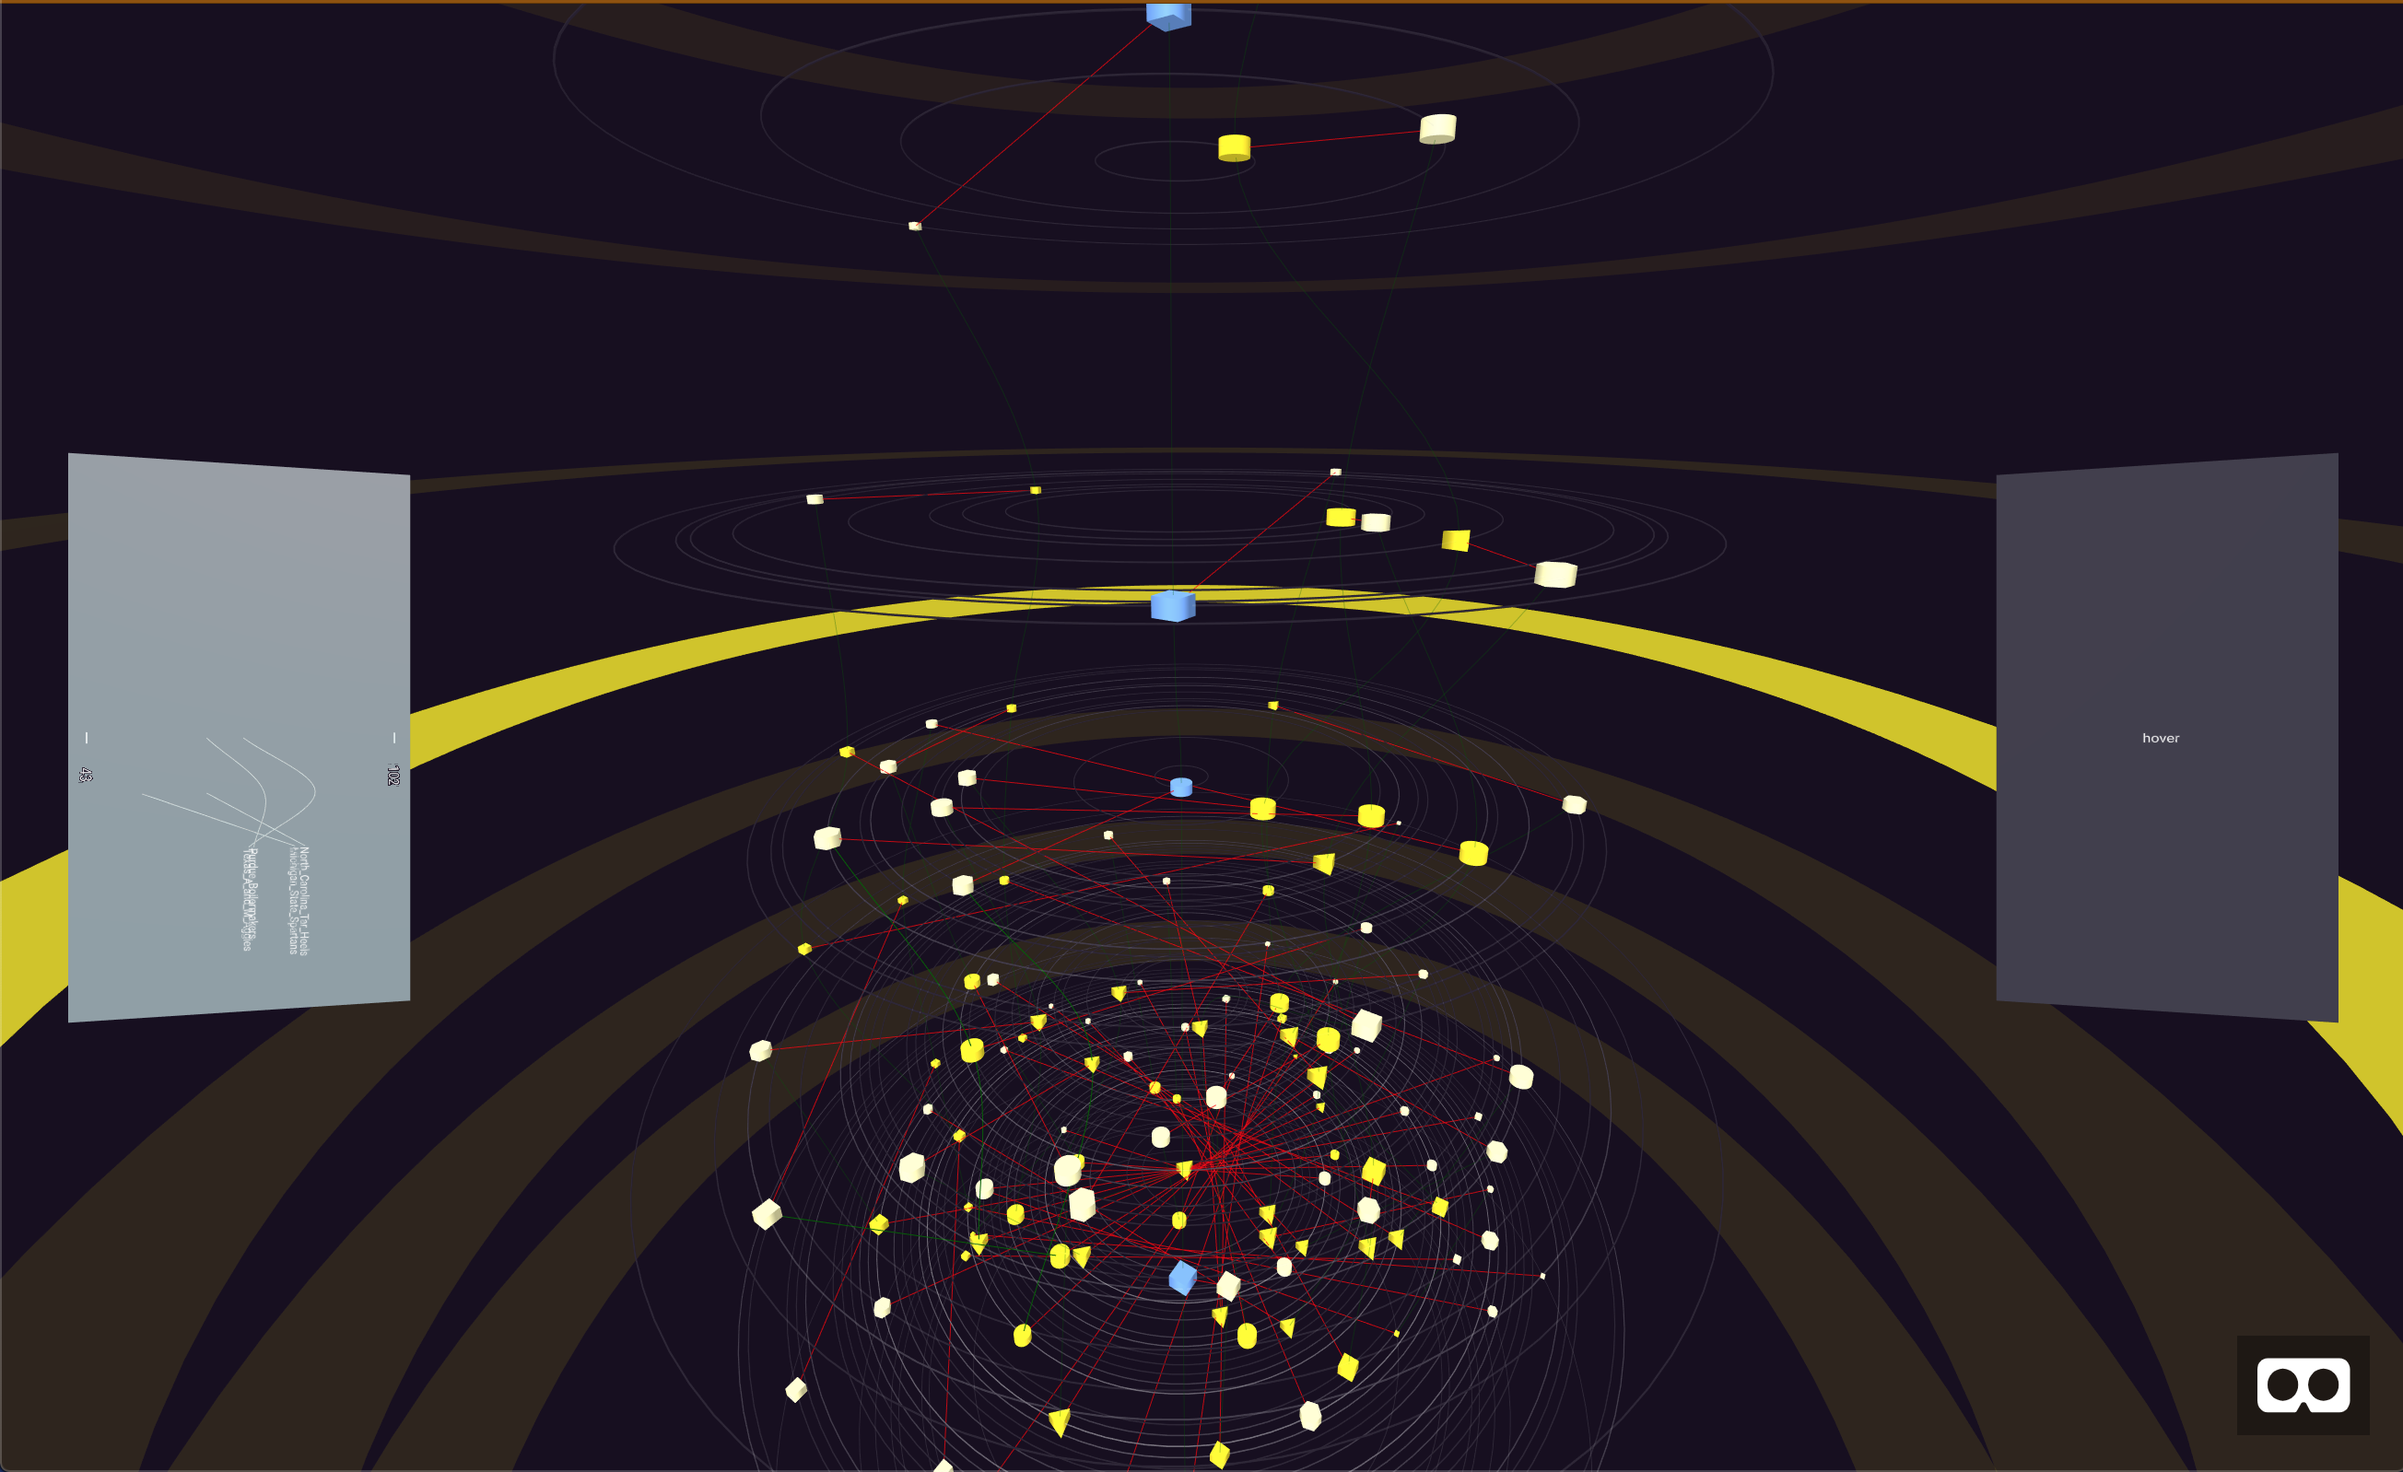
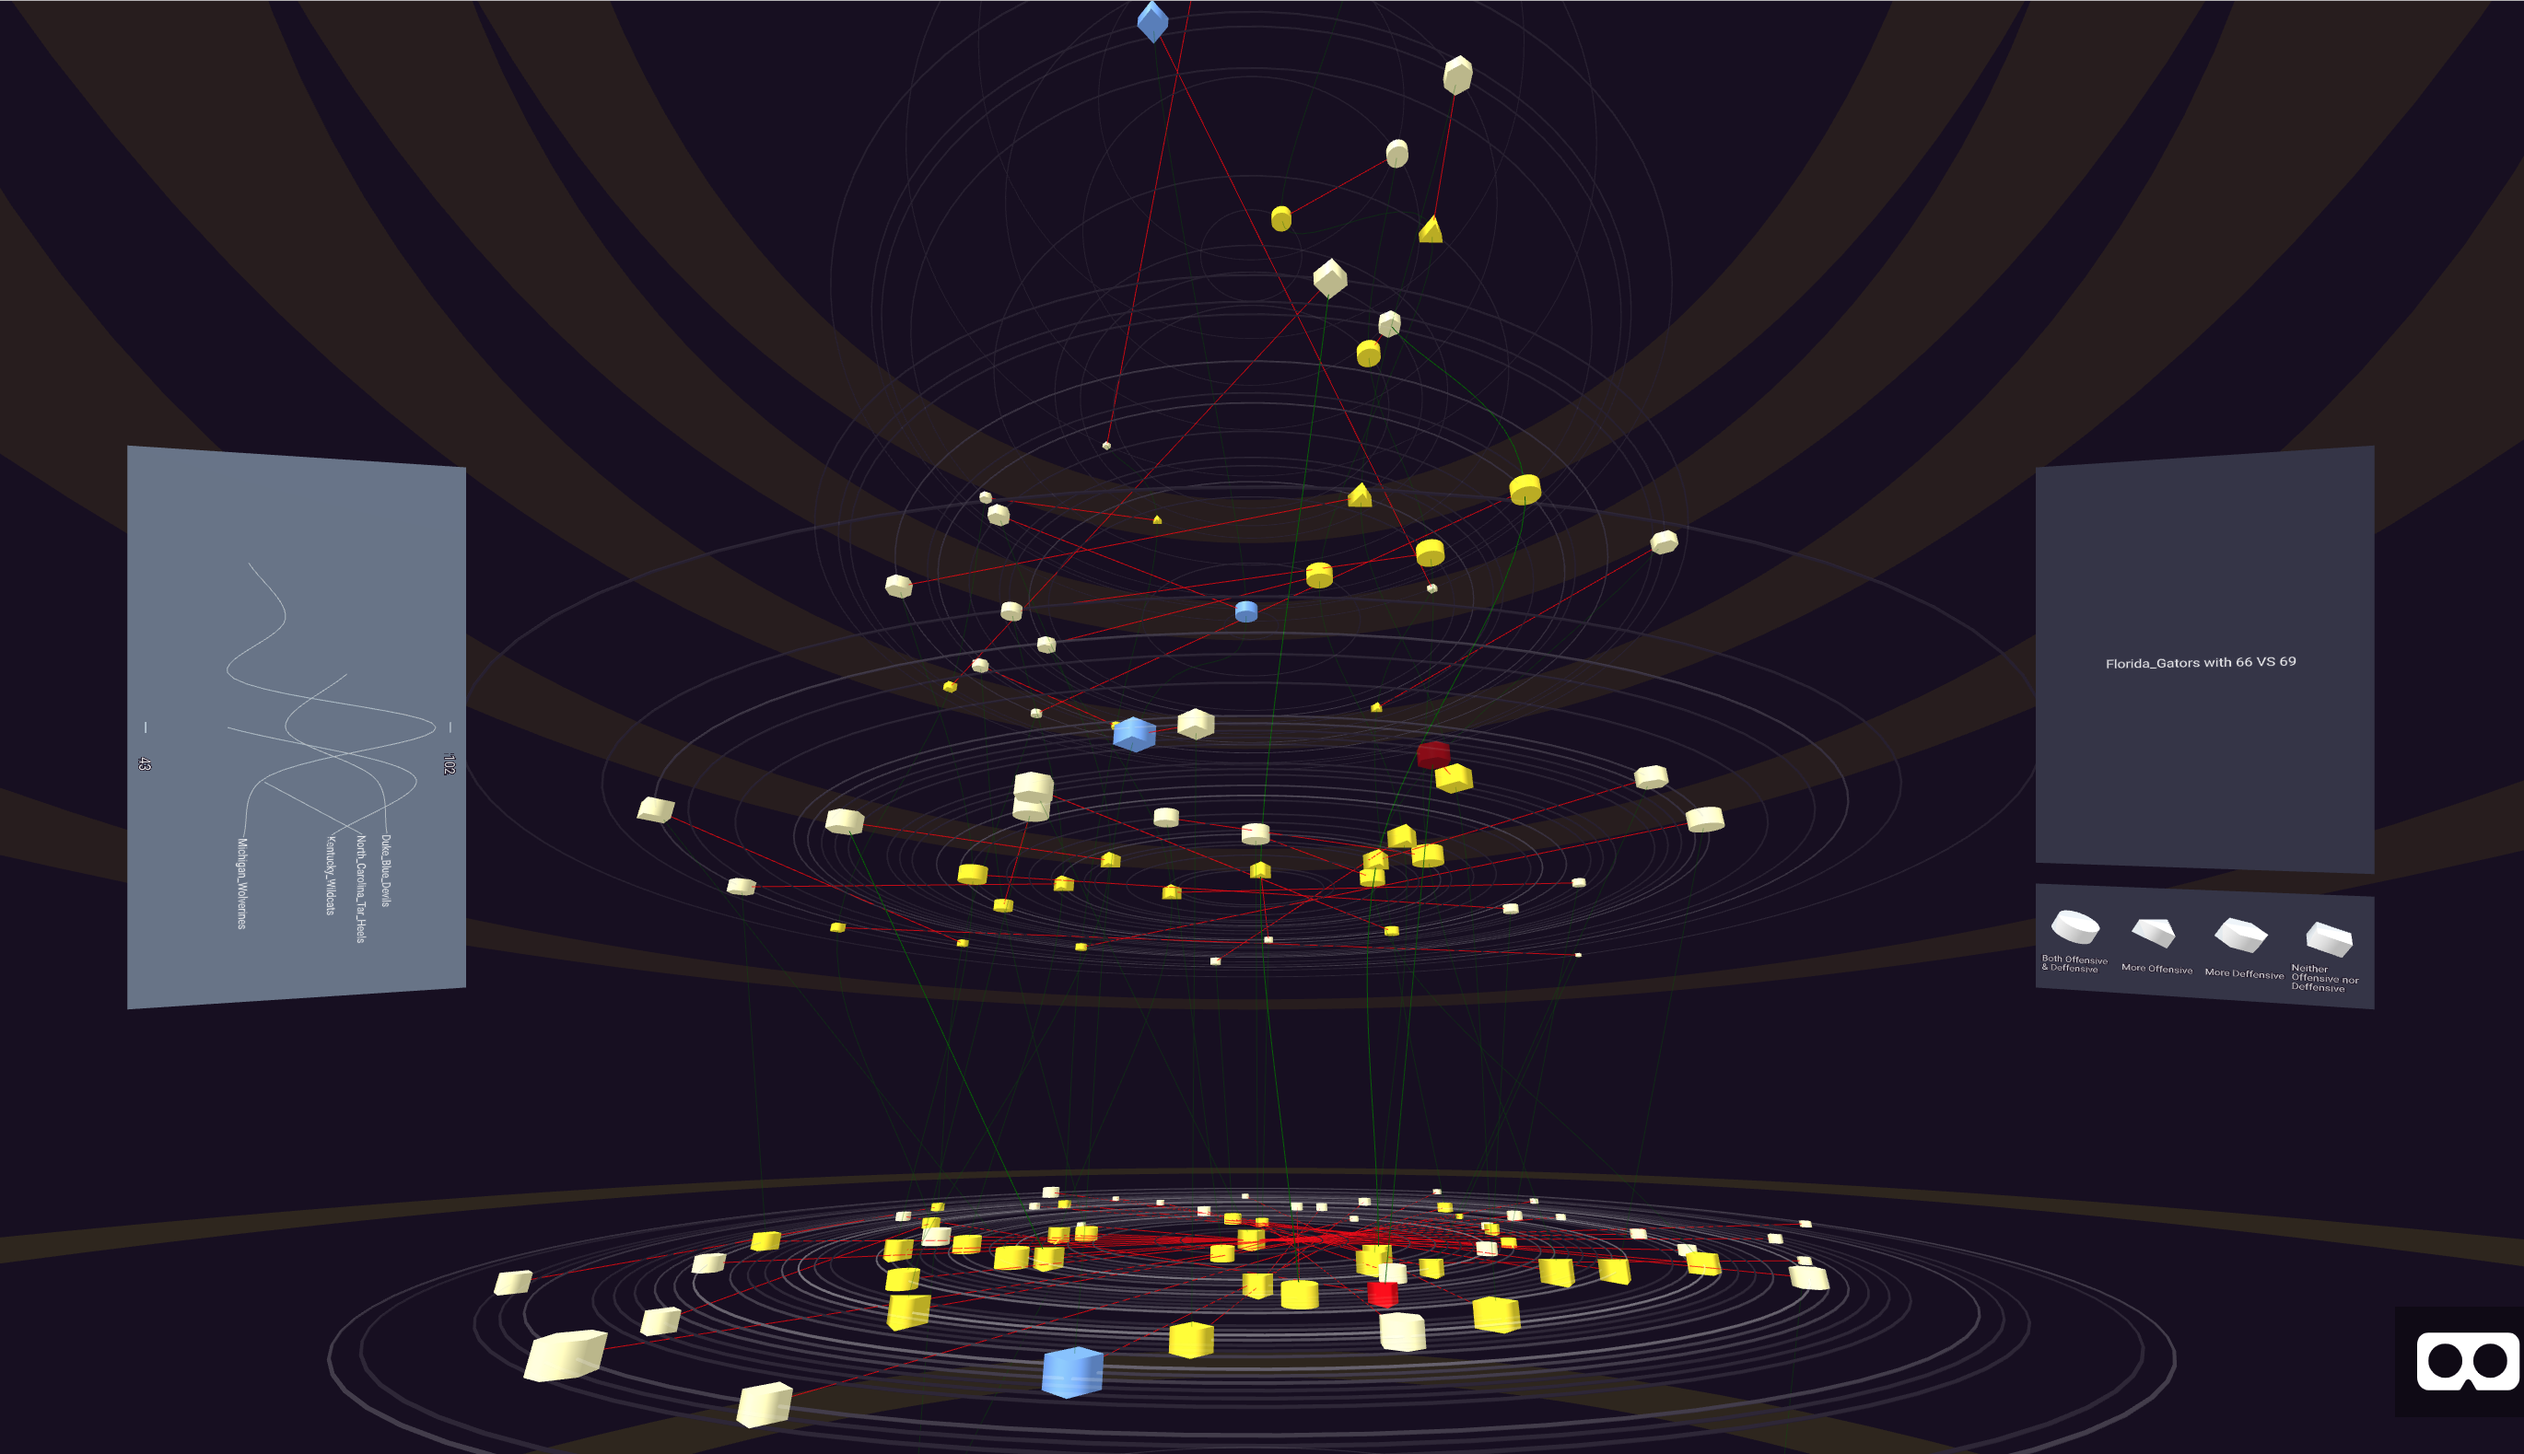
legend

diff --git a/aFrame/js/script_for_aFrame_d3.js b/aFrame/js/script_for_aFrame_d3.js
@@ -77,8 +77,8 @@
 // Create hud
     var hud_hover = aHead.append('a-entity')
                             //.attr('id','hud_hover')
-                            .attr('geometry',`primitive: plane; height: ${hud_height}; width: ${hud_width}`)
-                            .attr('position',`${hud_position_x + hud_width/2} 0 ${hud_position_z}`) //X,Y,Z
+                            .attr('geometry',`primitive: plane; height: ${hud_height * 3.8 / 5}; width: ${hud_width}`)
+                            .attr('position',`${hud_position_x + hud_width/2} ${ hud_height * 0.6 /5} ${hud_position_z}`) //X,Y,Z
                             .attr('rotation', `0 -${hud_rotation} 0`)
                             .attr('material',`color: ${hud_color}; transparent: true; opacity: ${hud_opacity_hover}`)
                             .attr('text',`color: white; align: center; value: hover; width: ${hud_width}`);
@@ -100,6 +100,36 @@
                                                     .attr('material', 'color: white')
                                                     .attr('position', `${maxX} ${hud_height / 2 * 0.05} 0`)
 
+// Create legend
+    var legendSection = aHead.append('a-entity')
+                              .attr('geometry',`primitive: plane; height: ${hud_height / 5}; width: ${hud_width}`)
+                              .attr('position',`${hud_position_x + hud_width/2} ${ - hud_height * 2 /5} ${hud_position_z}`) //X,Y,Z
+                              .attr('rotation', `0 -${hud_rotation} 0`)
+                              .attr('material',`color: ${hud_color}; transparent: true; opacity: ${hud_opacity_hover}`);
+        var sideNums = [
+                            [0, "Both Offensive & Deffensive", sideNum_strongBoth],
+                            [1, "More Offensive", sideNum_strongOffence],
+                            [2, "More Deffensive", sideNum_strongDeffence],
+                            [3, "Neither Offensive nor Deffensive", sideNum_weakBoth]
+                        ];
+        sideNums.forEach((info) => {
+            let index = info[0],
+                text = info[1],
+                num = info[2];
+            let thisLegend = legendSection.append('a-entity')
+                                            .attr('id', `Legend for ${text}`)
+                                            .attr('position', `${hud_width * ( - 3/8 + index * 1/4)} 0 0`);
+                let thisPrimitive = thisLegend.append('a-cylinder')
+                                                .attr('segments-radial', num)
+                                                .attr('scale', '0.03 0.03 0.03')
+                                                .attr('rotation', '30 15 0')
+                                                .attr('position', `0 ${hud_height * 0.1 / 5} 0`);
+                let thisText = thisLegend.append('a-entity')
+                                            .attr('text',  `color: white; value: ${text}; width: 0.2; wrap-count: 13`)
+                                            .attr('scale', '0.6 0.6 0.6')
+                                            .attr('position', `${hud_width * 0.05 / 5} ${-hud_height * 0.25 / 5} 0`)
+
+        })
 
 
 
